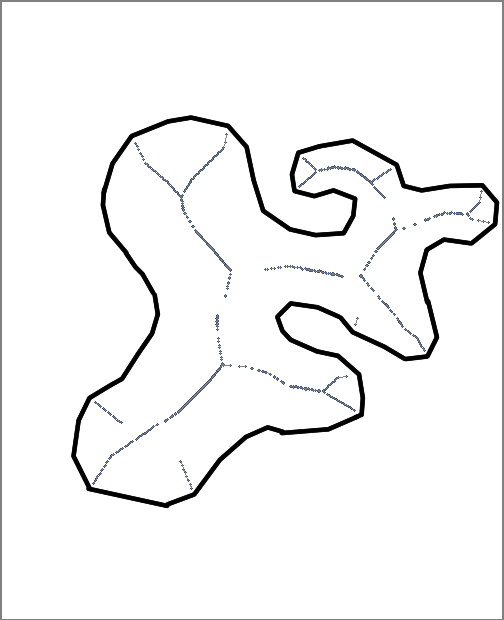
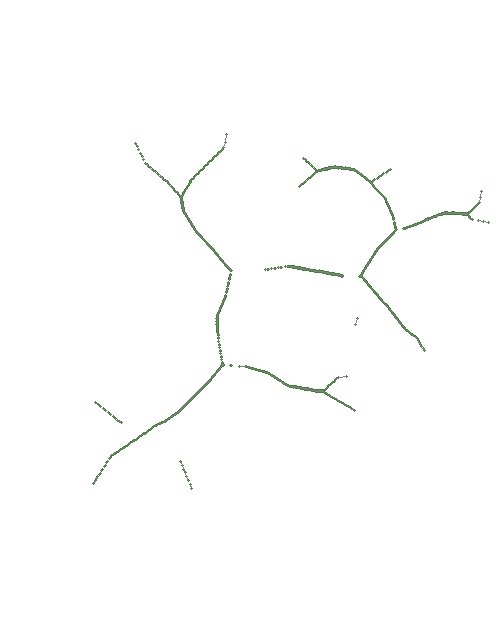
trying out some houghlines

diff --git a/hough.py b/hough.py
@@ -1,0 +1,47 @@
+# TAKEN FROM OPENCV EXAMPLES
+
+import cv2
+import cv2.cv as cv
+
+import numpy as np
+import sys
+
+from PIL import Image, ImageFilter
+
+FILE = sys.argv[1]
+
+im = Image.open(FILE)
+im1 = im.filter(ImageFilter.BLUR)
+
+img = cv2.imread(FILE)
+gray = cv2.cvtColor(img,cv2.COLOR_BGR2GRAY)
+blur = cv2.blur(img, (5, 5))
+edges = cv2.Canny(gray,50,150,apertureSize = 3)
+
+gray = (255-gray)
+
+cv2.imwrite(FILE + "gray.jpg", gray)
+cv2.imwrite(FILE + "edges.jpg", edges)
+
+minLineLength = 20
+maxLineGap = 5
+
+lines = cv2.HoughLinesP(gray,1,np.pi/180,10,minLineLength,maxLineGap)
+circles = cv2.HoughCircles(gray,cv.CV_HOUGH_GRADIENT,1,50,
+                            param1=50,param2=30,minRadius=0,maxRadius=0)
+
+
+if lines is not None:
+  print "FOUND ", len(lines[0]), "LINES"
+  for x1,y1,x2,y2 in lines[0]:
+      cv2.line(img,(x1,y1),(x2,y2),(0,255,0),2)
+
+
+if circles is not None:
+  print "FOUND ", len(circles[0]), "CIRCLES"
+  for x,y,r in circles[0]:
+      cv2.circle(img, (x,y), r, (0, 255, 0), 2)
+
+
+cv2.imwrite(FILE + 'houghlines3.jpg',img)
+

diff --git a/skellefin.py b/skellefin.py
@@ -302,6 +302,12 @@ def find_ridges(im):
 
 
 def connect_lines(im, ridge_map):
+    width, height = im.size
+    pixels = im.load()
+    for x in xrange(width):
+        for y in xrange(height):
+            pixels[(x, y)] = (255, 255, 255)
+
     for shape in ridge_map:
         # TODO: need to join all the points?
         # calculate distance from every pixel to each other...
@@ -309,8 +315,6 @@ def connect_lines(im, ridge_map):
         ridge_pixels.sort(key=lambda p: p[0])
 
 
-        pixels = im.load()
-        width, height = im.size
         shape_color = (
             random.randint(0, 128),
             random.randint(0, 128),
